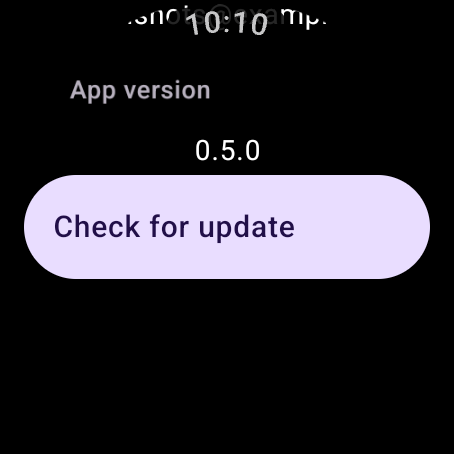
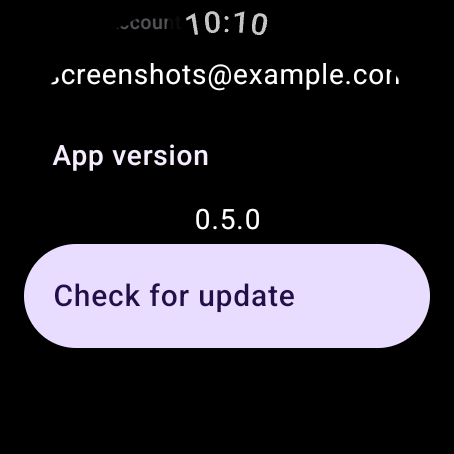
fix(wear): use Material 3's own edge-padding API instead of our hand-rolled one (0.5.4) (#1180)
0.5.3 fixed the last settings row being clipped by the bottom of the round
screen by reserving 0.35 of the screen height at the end of the list, via
a BoxWithConstraints. That worked, but it was our number and our
mechanism.

The Wear library has an API for precisely this, and describes it in those
terms: TransformingLazyColumnItemScope.minimumVerticalContentPadding
exists "to ensure that, when a list item is at the top or bottom of the
list, the distance from the item to the screen edge is sufficient (such as
to avoid the item being clipped by edges of a round screen)".

It is per-item because the amount needed is a property of the COMPONENT,
not of the screen: ButtonDefaults.minimumVerticalListContentPadding is
0.23 of screen height, ListHeaderDefaults.minimumTopListContentPadding is
0.13. The list then takes the maximum of its own contentPadding and
whatever its first/last item asks for, so items in the middle pay nothing
and a global inset can still raise the floor. Which item is last is not
fixed here either — the store-unavailable caption displaces the button
when it appears — and a declaration on each of them tracks that on its
own.

Net effect: slightly tighter at the bottom than our guess, and the heading
now gets the top padding the design system specifies. BoxWithConstraints
and LAST_ITEM_CENTERING_FRACTION are gone.

diff --git a/MobileGarage/wearApp/src/main/java/com/chriscartland/garage/wear/ui/WearSettingsScreen.kt b/MobileGarage/wearApp/src/main/java/com/chriscartland/garage/wear/ui/WearSettingsScreen.kt
@@ -18,10 +18,6 @@
 package com.chriscartland.garage.wear.ui
 
 import androidx.annotation.StringRes
-import androidx.compose.foundation.layout.BoxWithConstraints
-import androidx.compose.foundation.layout.PaddingValues
-import androidx.compose.foundation.layout.calculateEndPadding
-import androidx.compose.foundation.layout.calculateStartPadding
 import androidx.compose.foundation.layout.fillMaxSize
 import androidx.compose.foundation.layout.fillMaxWidth
 import androidx.compose.runtime.Composable
@@ -30,14 +26,15 @@ import androidx.compose.runtime.mutableStateOf
 import androidx.compose.runtime.remember
 import androidx.compose.runtime.setValue
 import androidx.compose.ui.Modifier
-import androidx.compose.ui.platform.LocalLayoutDirection
 import androidx.compose.ui.res.stringResource
 import androidx.compose.ui.text.style.TextAlign
 import androidx.compose.ui.tooling.preview.Preview
 import androidx.wear.compose.foundation.lazy.TransformingLazyColumn
 import androidx.wear.compose.foundation.lazy.rememberTransformingLazyColumnState
 import androidx.wear.compose.material3.Button
+import androidx.wear.compose.material3.ButtonDefaults
 import androidx.wear.compose.material3.ListHeader
+import androidx.wear.compose.material3.ListHeaderDefaults
 import androidx.wear.compose.material3.ListSubHeader
 import androidx.wear.compose.material3.MaterialTheme
 import androidx.wear.compose.material3.ScreenScaffold
@@ -119,111 +116,111 @@ fun WearSettingsScreen(
         scrollState = listState,
         modifier = modifier,
     ) { contentPadding ->
-        BoxWithConstraints(modifier = Modifier.fillMaxSize()) {
-            // Room past the last item, so the end of the list can be scrolled up
-            // to the middle of the screen instead of stopping as soon as it is
-            // technically on screen.
-            //
-            // Without it the last row comes to rest against the bottom arc,
-            // where a round screen has least width, and the curve takes its
-            // ends. That is the ONLY place this list had a problem: the middle
-            // of the screen is full width and was always fine. (An earlier
-            // attempt at this narrowed every row to fit the corners, which
-            // "fixed" it by making the rows worse everywhere else, and wrapped
-            // an email address in the widest part of the screen for no reason.)
-            //
-            // ScalingLazyColumn has `AutoCenteringParams` for exactly this.
-            // TransformingLazyColumn dropped it, and content padding is the
-            // documented replacement — so this is the sanctioned mechanism
-            // rather than a workaround for a missing one.
-            val endSpacer = maxHeight * LAST_ITEM_CENTERING_FRACTION
-            TransformingLazyColumn(
-                state = listState,
-                contentPadding = PaddingValues(
-                    // ScreenScaffold's own values everywhere except the bottom:
-                    // it knows about TimeText and the scroll indicator.
-                    start = contentPadding.calculateStartPadding(LocalLayoutDirection.current),
-                    end = contentPadding.calculateEndPadding(LocalLayoutDirection.current),
-                    top = contentPadding.calculateTopPadding(),
-                    bottom = contentPadding.calculateBottomPadding() + endSpacer,
-                ),
-                modifier = Modifier.fillMaxSize(),
-            ) {
-                item {
-                    ListHeader(
-                        transformation = SurfaceTransformation(transformSpec),
-                        modifier = Modifier.transformedHeight(this, transformSpec),
-                    ) {
-                        Text(text = stringResource(R.string.settings_title))
-                    }
+        TransformingLazyColumn(
+            state = listState,
+            // ScreenScaffold's own values. The room the LAST item needs to clear
+            // the bottom arc is not requested here but by that item itself, via
+            // `minimumVerticalContentPadding` — see the button below.
+            contentPadding = contentPadding,
+            modifier = Modifier.fillMaxSize(),
+        ) {
+            item {
+                ListHeader(
+                    transformation = SurfaceTransformation(transformSpec),
+                    modifier = Modifier
+                        .minimumVerticalContentPadding(
+                            top = ListHeaderDefaults.minimumTopListContentPadding,
+                            bottom = ListHeaderDefaults.minimumBottomListContentPadding,
+                        ).transformedHeight(this, transformSpec),
+                ) {
+                    Text(text = stringResource(R.string.settings_title))
                 }
-                item {
-                    ListSubHeader(
-                        transformation = SurfaceTransformation(transformSpec),
-                        modifier = Modifier.transformedHeight(this, transformSpec),
-                    ) {
-                        Text(text = stringResource(R.string.settings_account))
-                    }
+            }
+            item {
+                ListSubHeader(
+                    transformation = SurfaceTransformation(transformSpec),
+                    modifier = Modifier.transformedHeight(this, transformSpec),
+                ) {
+                    Text(text = stringResource(R.string.settings_account))
                 }
-                item {
-                    AccountValue(account = WearSettingsMappers.account(authState))
+            }
+            item {
+                AccountValue(account = WearSettingsMappers.account(authState))
+            }
+            item {
+                ListSubHeader(
+                    transformation = SurfaceTransformation(transformSpec),
+                    modifier = Modifier.transformedHeight(this, transformSpec),
+                ) {
+                    Text(text = stringResource(R.string.settings_version))
                 }
-                item {
-                    ListSubHeader(
-                        transformation = SurfaceTransformation(transformSpec),
-                        modifier = Modifier.transformedHeight(this, transformSpec),
-                    ) {
-                        Text(text = stringResource(R.string.settings_version))
-                    }
-                }
+            }
+            item {
+                Text(
+                    text = versionName,
+                    style = MaterialTheme.typography.bodyMedium,
+                    textAlign = TextAlign.Center,
+                )
+            }
+            // Only a build that never came from a release says anything here.
+            // A released build's version number above is the whole answer; the
+            // tag it was cut from is internal plumbing and means nothing to
+            // someone wearing the watch. "Not a release" is a genuinely
+            // different thing from "an old release", though, and the version
+            // number alone cannot tell you which one you have.
+            if (!WearStoreLink.isReleaseBuild(tagNumber)) {
                 item {
                     Text(
-                        text = versionName,
-                        style = MaterialTheme.typography.bodyMedium,
+                        text = stringResource(R.string.settings_local_build),
+                        style = MaterialTheme.typography.bodySmall,
+                        color = MaterialTheme.colorScheme.onSurfaceVariant,
                         textAlign = TextAlign.Center,
                     )
                 }
-                // Only a build that never came from a release says anything here.
-                // A released build's version number above is the whole answer; the
-                // tag it was cut from is internal plumbing and means nothing to
-                // someone wearing the watch. "Not a release" is a genuinely
-                // different thing from "an old release", though, and the version
-                // number alone cannot tell you which one you have.
-                if (!WearStoreLink.isReleaseBuild(tagNumber)) {
-                    item {
-                        Text(
-                            text = stringResource(R.string.settings_local_build),
-                            style = MaterialTheme.typography.bodySmall,
-                            color = MaterialTheme.colorScheme.onSurfaceVariant,
-                            textAlign = TextAlign.Center,
-                        )
-                    }
-                }
+            }
+            item {
+                Button(
+                    onClick = { storeUnavailable = !onOpenStore() },
+                    transformation = SurfaceTransformation(transformSpec),
+                    modifier = Modifier
+                        .fillMaxWidth()
+                        // The fix for "the last row is clipped by the round
+                        // corners", in the library's own words: this modifier
+                        // exists "to ensure that, when a list item is at the top
+                        // or bottom of the list, the distance from the item to
+                        // the screen edge is sufficient (such as to avoid the
+                        // item being clipped by edges of a round screen)".
+                        //
+                        // The list takes the MAXIMUM of its own contentPadding
+                        // and what its first/last item asks for here, so this
+                        // costs nothing for the items in between — which is why
+                        // it is per-item rather than a bottom inset on the whole
+                        // list. The value is Material 3's recommendation for a
+                        // Button in this position (0.23 of screen height), not a
+                        // number of ours.
+                        .minimumVerticalContentPadding(
+                            ButtonDefaults.minimumVerticalListContentPadding,
+                        ).transformedHeight(this, transformSpec),
+                    label = {
+                        Text(text = stringResource(R.string.settings_check_for_update))
+                    },
+                )
+            }
+            // Discovered by trying, not by asking first — see WearStoreLink for
+            // why a pre-check gives the wrong answer on Android 11+. No
+            // reserved slot is needed here (unlike the old centred column):
+            // appending to a top-anchored list moves nothing above it.
+            if (storeUnavailable) {
                 item {
-                    Button(
-                        onClick = { storeUnavailable = !onOpenStore() },
-                        transformation = SurfaceTransformation(transformSpec),
-                        modifier = Modifier
-                            .fillMaxWidth()
-                            .transformedHeight(this, transformSpec),
-                        label = {
-                            Text(text = stringResource(R.string.settings_check_for_update))
-                        },
+                    Text(
+                        text = stringResource(R.string.settings_store_unavailable),
+                        modifier = Modifier.minimumVerticalContentPadding(
+                            ButtonDefaults.minimumVerticalListContentPadding,
+                        ),
+                        style = MaterialTheme.typography.bodySmall,
+                        color = MaterialTheme.colorScheme.error,
+                        textAlign = TextAlign.Center,
                     )
-                }
-                // Discovered by trying, not by asking first — see WearStoreLink for
-                // why a pre-check gives the wrong answer on Android 11+. No
-                // reserved slot is needed here (unlike the old centred column):
-                // appending to a top-anchored list moves nothing above it.
-                if (storeUnavailable) {
-                    item {
-                        Text(
-                            text = stringResource(R.string.settings_store_unavailable),
-                            style = MaterialTheme.typography.bodySmall,
-                            color = MaterialTheme.colorScheme.error,
-                            textAlign = TextAlign.Center,
-                        )
-                    }
                 }
             }
         }
@@ -336,17 +333,3 @@ private val PREVIEW_SETTINGS_USER = AuthState.Authenticated(
         email = Email("preview@example.com"),
     ),
 )
-
-/**
- * How far past the last item the list can scroll, as a fraction of the screen's
- * height.
- *
- * Half a screen is what lets the final row travel from the bottom arc — where a
- * round screen is narrowest and clips it — to the middle, where it is not
- * clipped at all. Less leaves it short of centre; more only buys empty space
- * below a list that has already ended.
- *
- * A fraction rather than a dp because the thing being centred is the screen
- * itself, so this scales exactly right on every watch size.
- */
-private const val LAST_ITEM_CENTERING_FRACTION = 0.35f

diff --git a/MobileGarage/wearApp/CHANGELOG.md b/MobileGarage/wearApp/CHANGELOG.md
@@ -14,6 +14,16 @@ The phone app's history lives in [`../CHANGELOG.md`](../CHANGELOG.md).
 Same rule as the phone app: major = rewrite or core-experience shift;
 minor = added or removed user-facing feature; patch = fixes, polish, refactors.
 
+## 0.5.4
+
+- The spacing at the top and bottom of Settings is now Material 3's own
+  recommendation rather than a number we picked. 0.5.3 fixed the last row being
+  clipped by the bottom of the round screen by reserving space by hand; the Wear
+  library turns out to have an API for exactly this, which each row uses to ask
+  for the room it needs, and which the list grants only to the rows that are
+  actually at an edge. Slightly tighter than our guess at the bottom, and the
+  heading at the top now sits where the design system puts it.
+
 ## 0.5.3
 
 - **The end of Settings can now be scrolled up into the middle of the screen.**
